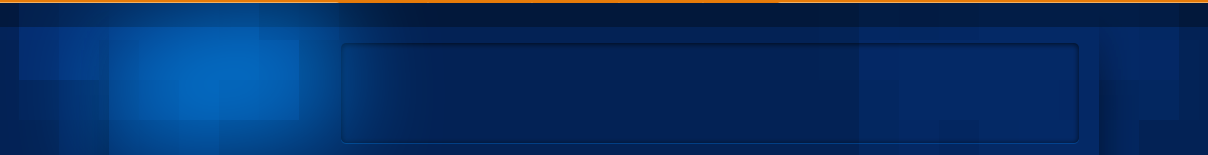
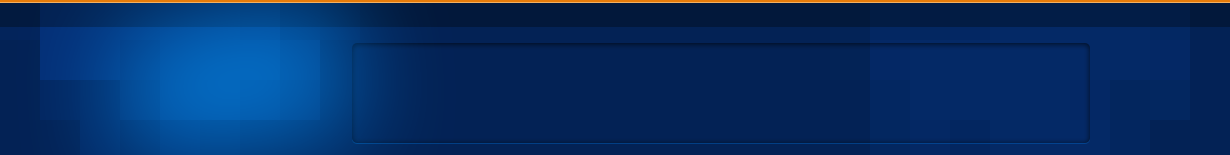
Penny Arcade theme fixes.

Changed region(s): [[0.2757, 0.0, 0.6432, 0.0258], [0.0, 0.2581, 0.0306, 0.5161], [0.8882, 0.2839, 0.9189, 0.3097]]

diff --git a/themes/pennyarcade/design/custom.css b/themes/pennyarcade/design/custom.css
@@ -51,7 +51,7 @@ body {
 }
 #header .content {
 	overflow: hidden;
-	height: 155px;
+	height: 160px;
 	margin: 0 auto;
    width: 990px;
 }
@@ -263,9 +263,9 @@ a:hover {
 #Head .ProfileMenu a:hover {
 	display: inline-block;
 	text-decoration: none;
-	line-height: 20px;
+	line-height: 24px;
 	color: #032255;
-	margin: 6px 0 0 0;
+	margin: 5px 0 0 0;
 }
 #Head .ProfileMenu a.Activity,
 #Head .ProfileMenu a.Dashboard,
@@ -393,7 +393,7 @@ div.DiscussionTabs div.SubTab,
 div.DiscussionsTabs div.SubTab {
 	font-size: 12px;
 	position: absolute;
-	top: 169px;
+	top: 174px;
 	left: 160px;
 	right: 310px;
 	white-space: nowrap;
@@ -443,7 +443,8 @@ div.ConversationsTabs,
 div.FormBanner,
 div.ProfileTabs,
 div.DiscussionTabs,
-div.DiscussionsTabs {
+div.DiscussionsTabs,
+div.SearchTabs {
 	border: 1px solid #004487;
 	background: url('images/bg-heading-tile.png') top left repeat-x #004d99;
 	border-radius: 4px 4px 0 0;
@@ -468,7 +469,9 @@ div.ConversationTabs h1,
 div.ConversationTabs h1 a,
 div.ConversationsTabs h1,
 div.ConversationsTabs h1 a,
-div.DiscussionTabs h1 {
+div.DiscussionTabs h1,
+div.SearchTabs h1,
+div.SearchTabs h2 {
 	margin: 0;
 	padding: 0;
 	font-size: 13px;
@@ -654,11 +657,11 @@ ul.DataList.Discussions li.Item:nth-child(2) {
 	border-top: none !important;
 }
 ul.DataList.Conversations li.Item:nth-of-type(odd),
+ul.DataList.SearchResults li.Item:nth-of-type(odd),
 ul.DataList.Discussions li.Item:nth-of-type(odd) {
 	background: url('images/bg-read.png') left center repeat-y #f2f2f2;
 }
 ul.DataList.Drafts li.Item,
-ul.DataList.SearchResults li.Item,
 ul.DataList.Activities li.Item {
 	padding: 4px 6px;
 	background: #fff;
@@ -667,7 +670,6 @@ ul.DataList.Drafts li.Item {
 	padding: 4px 0;
 }
 ul.DataList.Drafts li.Item:nth-of-type(odd),
-ul.DataList.SearchResults li.Item:nth-of-type(odd),
 ul.DataList.Activities li.Item:nth-of-type(odd) {
 	background: #f2f2f2;
 }
@@ -726,6 +728,7 @@ body.Discussion a.Bookmarking {
 a.BigButton:hover {
 	text-decoration: none;
 }
+div.SearchForm input.Button,
 body.Vanilla div.CommentForm input.CommentButton,
 body.Vanilla a.BigButton,
 body.Vanilla a.BigButton:hover,
@@ -756,6 +759,13 @@ body.Vanilla div.CommentForm input.CommentButton:hover,
 body.Discussion a.BigButton:hover { background-position: -105px 0px; }
 body.Vanilla div.CommentForm input.CommentButton:active,
 body.Discussion a.BigButton:active { background-position: -105px -58px; }
+div.SearchForm input.Button {
+	display: inline-block;
+	width: 68px;
+	background-position: -210px -29px;
+}
+div.SearchForm input.Button:hover { background-position: -210px 0px; }
+div.SearchForm input.Button:active { background-position: -210px -58px; }
 .NumberedPager {
 	padding: 3px 0;
 	float: none;
@@ -1741,11 +1751,45 @@ span.InformSprite.Redflag {
 }
 
 /* Search Results */
+div.SearchForm {
+	background: #fff;
+	border-radius: 0 0 3px 3px;
+	-moz-border-radius: 0 0 3px 3px;
+	-webkit-border-radius: 0 0 3px 3px;
+	padding: 15px;
+	margin: 0 0 15px;
+}
+.SearchBox {
+	font-size: 14px;
+	padding: 3px 3px 3px 21px;
+	width: 450px;
+	margin: 0 10px 0 0;
+}
+span.SearchSprite {
+	margin: 13px 0 0 8px;
+	position: absolute;
+	display: block;
+	background: url('images/sprites.png') 0px -750px no-repeat transparent;
+	height: 13px;
+	width: 13px;
+}
 ul.DataList.SearchResults .ItemContent {
 	padding: 0 10px;
 }
 ul.DataList div.Excerpt a:hover {
 	text-decoration: none;
+}
+ul.DataList.SearchResults a.Title,
+ul.DataList.SearchResults div.Excerpt,
+ul.DataList.SearchResults div.Excerpt a {
+	display: inline;
+}
+ul.DataList.SearchResults div.Excerpt a {
+	margin-left: 10px;
+	color: #666;
+}
+ul.DataList.SearchResults li.Item, ul.DataList.Activities li.Item {
+   padding: 8px 6px;
 }
 
 /* Infractions */

diff --git a/themes/pennyarcade/views/search/results.php b/themes/pennyarcade/views/search/results.php
@@ -7,26 +7,11 @@ if (is_array($this->SearchResults) && count($this->SearchResults) > 0) {
 ?>
 	<li class="Item">
 		<?php $this->FireEvent('BeforeItemContent'); ?>
-		<div class="DateCreated TimestampContainer"><span class="TimestampArrow"></span><?php
-			echo Anchor(Gdn_Format::Date($Row->DateInserted), $Row->Url, 'Permalink', array('rel' => 'nofollow'));
-		?></div>		
 		<div class="ItemContent">
 			<?php echo Anchor(Gdn_Format::Text($Row->Title), $Row->Url, 'Title'); ?>
 			<div class="Excerpt"><?php
-				echo Anchor(nl2br(SliceString(Gdn_Format::Text($Row->Summary, FALSE), 250)), $Row->Url);
+				echo Anchor(SliceString(Gdn_Format::Text($Row->Summary, FALSE), 250), $Row->Url);
 			?></div>
-			<div class="Meta">
-				<span class="Author"><?php printf(T('by %s'), UserAnchor($Row)); ?></span>
-            <?php
-            if (isset($Row->CategoryID)) {
-               $Category = CategoryModel::Categories($Row->CategoryID);
-               if ($Category !== NULL) {
-                  $Url = Url('categories/'.$Category['UrlCode']);
-                  echo "<span><a class='Category' href='{$Url}'>{$Category['Name']}</a></span>";
-               }
-            }
-            ?>
-			</div>
 		</div>
 	</li>
 <?php

diff --git a/themes/pennyarcade/views/categories/all.php b/themes/pennyarcade/views/categories/all.php
@@ -39,11 +39,10 @@ echo '<ul class="DataList CategoryList'.($DoHeadings ? ' CategoryListWithHeading
             if ($ChildCategories != '')
                $ChildCategories .= ', ';
             $ChildCategories .= Anchor(Gdn_Format::Text($Category->Name), '/categories/'.$Category->UrlCode);
-         } else if ($DoHeadings && $Category->Depth == 1) {
+         } else if ($Category->Depth == 1) {
             $CatList .= '<li class="Item CategoryHeading Depth1 Category-'.$Category->UrlCode.'">
-               <div class="Category '.$ReadClass.'">'.Gdn_Format::Text($Category->Name).'</div>'
-               // .GetOptions($Category, $this).'
-            .'</li>';
+               <div class="Category '.$ReadClass.'">'.Gdn_Format::Text($Category->Name).'</div>
+            </li>';
          } else {
             $ModList = '';
             foreach ($Category->Moderators as $Moderator) {
